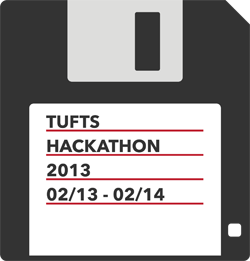
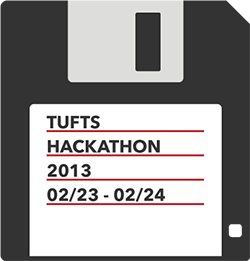
seo updates and floppy image date

diff --git a/templates/base.html b/templates/base.html
@@ -13,7 +13,7 @@
   <meta http-equiv="X-UA-Compatible" content="IE=edge,chrome=1">
 
   <title>{% block title %}{% endblock %}</title>
-  <meta name="description" content="">
+  <meta name="description" content="Homepage for Tufts Hackathon 2013. Register, Submit ideas, check out resources. Get your hack on.">
   <meta name="author" content="">
 
   <!-- Mobile viewport optimized: j.mp/bplateviewport -->
@@ -84,7 +84,7 @@
             <footer>
               {% block footer %}{% endblock %}
               <hr>
-              <p>Tufts Hackathon 2013</p>
+              <p><a href="/">Tufts Hackathon 2013</a></p>
             </footer>
           </div> <!-- /container -->
         </div>

diff --git a/static/css/style.css b/static/css/style.css
@@ -28,6 +28,8 @@ h1, h2, h3, h4, h5, h6, .brand {
 footer {
   margin-top: 30px;
   clear: both; }
+  footer a, footer a:visited, footer a:hover {
+    color: grey; }
 
 .bold {
   font-weight: bold; }

diff --git a/templates/idea.html b/templates/idea.html
@@ -1,6 +1,6 @@
 {% extends "base.html" %}
 
-{% block title %}Tufts Hackathon 2013{% endblock %}
+{% block title %}Ideas | Tufts Hackathon 2013{% endblock %}
 
 {% block main %}
 <div class="row">

diff --git a/templates/resources.html b/templates/resources.html
@@ -1,6 +1,6 @@
 {% extends "base.html" %}
 
-{% block title %}Tufts Hackathon 2013{% endblock %}
+{% block title %}Resources | Tufts Hackathon 2013{% endblock %}
 
 {% block main %}
 

diff --git a/static/css/style.sass b/static/css/style.sass
@@ -42,6 +42,8 @@ h1,h2,h3,h4,h5,h6,.brand
 footer
   margin-top: 30px
   clear: both
+  a, a:visited, a:hover
+    color: grey
 
 .bold
   font-weight: bold
